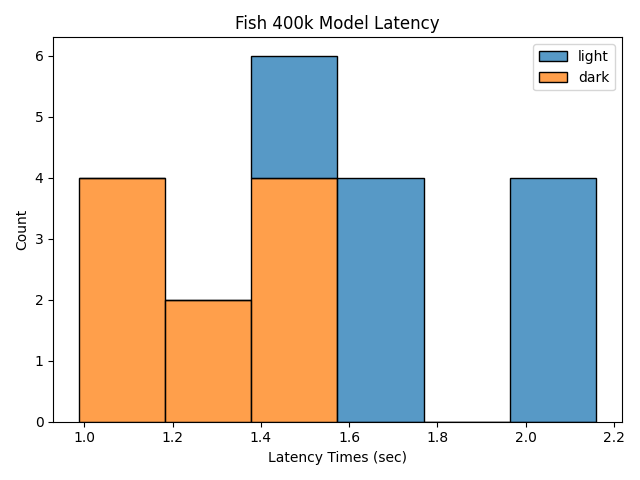
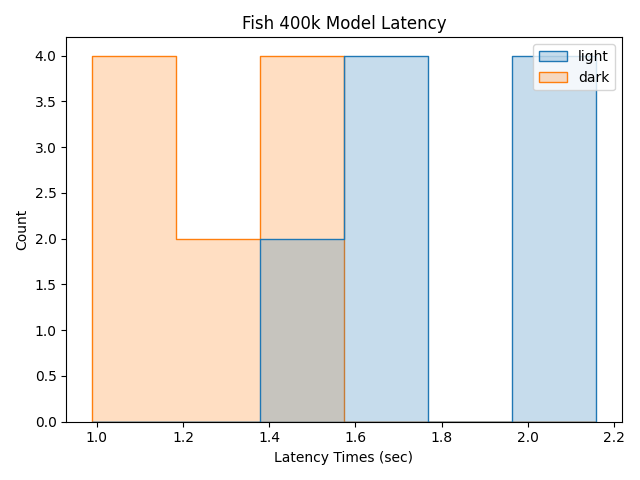
update graphs and make csvs of raw data

diff --git a/latency.py b/latency.py
@@ -1,3 +1,4 @@
+from datetime import time
 import glob
 import matplotlib.pyplot as plt
 import seaborn as sns
@@ -28,7 +29,7 @@ def latency_calculations(dataset, title):
             f.write(f'std: {std}\n')
             f.write(f'throughput: {file_model_Mb[title] / mean}\n')
 
-    ax = sns.histplot(data=dataset, multiple='stack')
+    ax = sns.histplot(data=dataset, element='step')
     graph_title = f'{title} Model Latency'
     ax.set(xlabel='Latency Times (sec)', ylabel='Count', title=graph_title)
     plt.tight_layout()
@@ -52,4 +53,5 @@ for folder in glob.glob(f'trials/*'):
     light_times_np = np.array(light_times)
     dark_times_np = np.array(dark_times)
     times = pd.DataFrame(np.hstack((light_times_np[:,None], dark_times_np[:,None])), columns=['light', 'dark'])
+    times.to_csv(f'raw_data/{folder[7:]}.csv')
     latency_calculations(times, folder[7:])

diff --git a/comparison.py b/comparison.py
@@ -8,14 +8,14 @@ def comparison_calculations(dataset, title):
     latency = dataset[['Edge Latency', 'Cloud Latency']]
     throughput = dataset[['Edge Throughput', 'Cloud Throughput']]
 
-    ax = sns.histplot(data=latency, multiple='stack')
+    ax = sns.histplot(data=latency, element='step')
     graph_title = f'{title} Average Latency Comparison'
     ax.set(xlabel='Latency Times (sec)', title=graph_title)
     plt.tight_layout()
     plt.savefig(f'graphs/{graph_title}_latency.png')
     plt.clf()
 
-    ax = sns.histplot(data=throughput, multiple='stack')
+    ax = sns.histplot(data=throughput, element='step')
     graph_title = f'{title} Average Throughput Comparison'
     ax.set(xlabel='Throughput (Mbps)', title=graph_title)
     plt.tight_layout()
